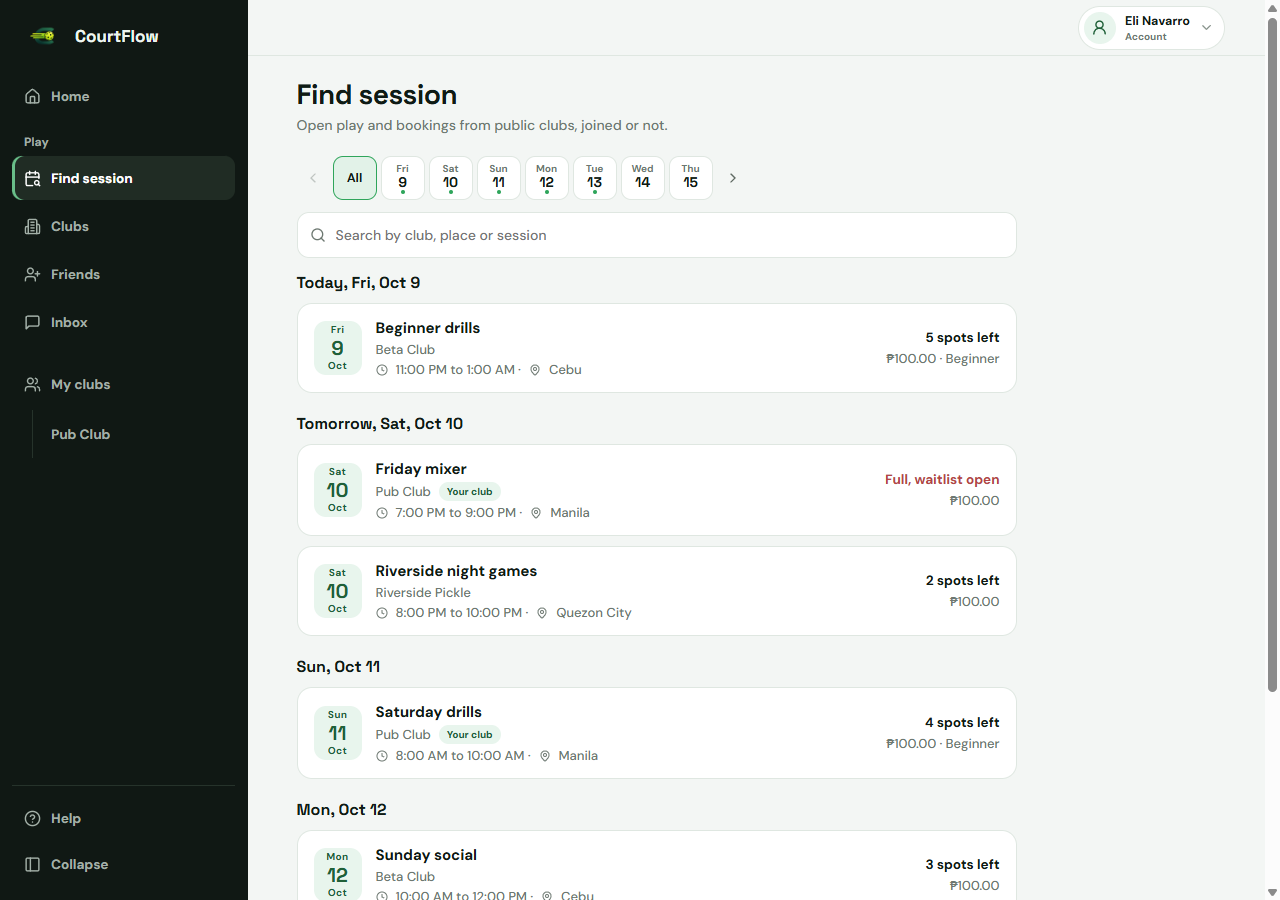
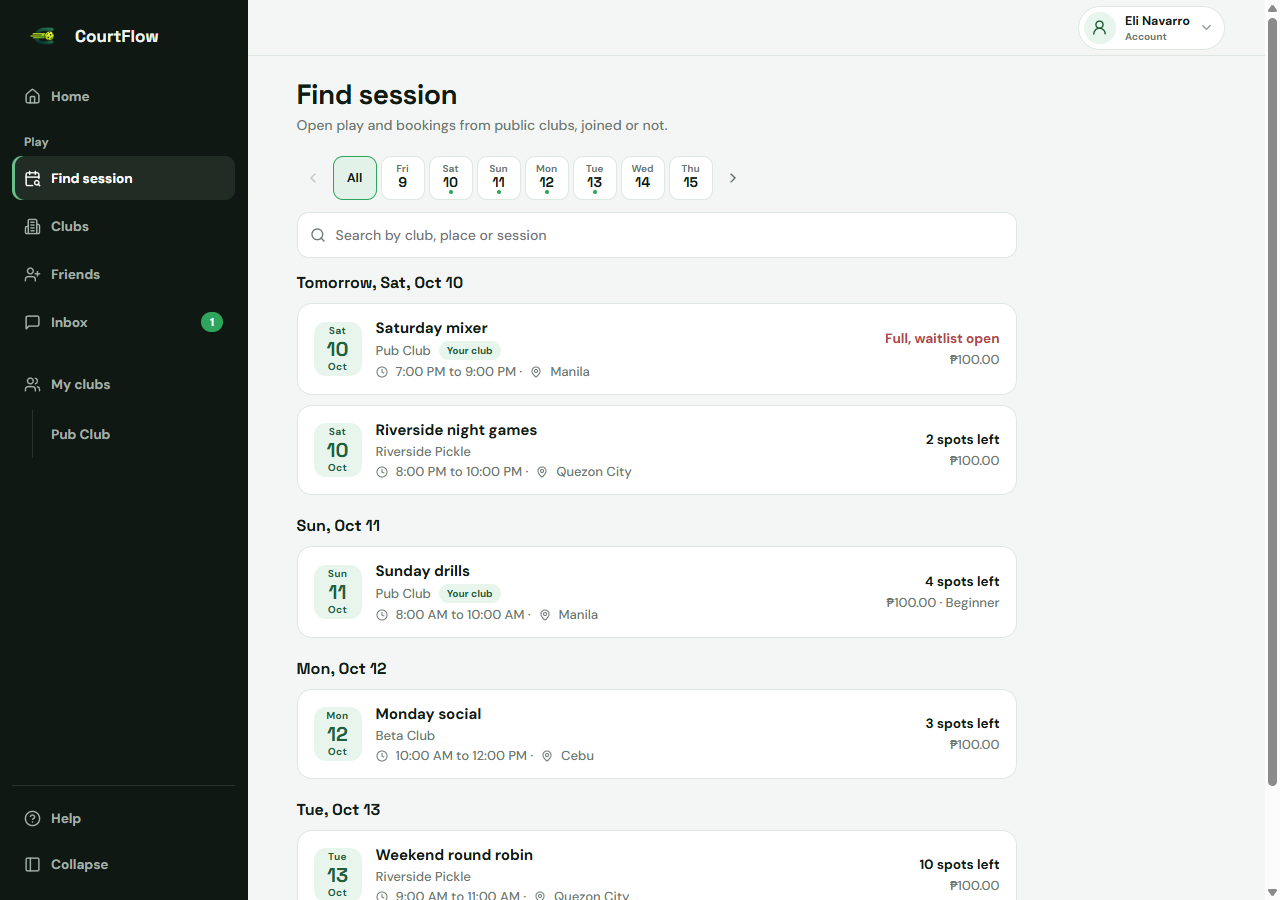
fix: Help topic switching no longer flicks through sections; sections take focus; breakpoint-aware highlight; seed titles match their days and screenshots retaken

diff --git a/src/views/Help.jsx b/src/views/Help.jsx
@@ -33,29 +33,45 @@ export default function Help({ navigate }) {
   const [active, setActive] = useState((MAJOR.find((s) => s.featured) || MAJOR[0]).id);
   const pageRef = useRef(null);
   const bodyRef = useRef(null);
+  // While a click on the contents list is scrolling to its section, the highlight must not flick through every section on the way.
+  const lockUntil = useRef(0);
+  // Wide screens scroll the guide in its own pane, phones scroll the page; follow the breakpoint if it changes (a tablet turning).
+  const [wide, setWide] = useState(() => (typeof matchMedia === "function" ? matchMedia("(min-width: 861px)").matches : true));
+  useEffect(() => {
+    if (typeof matchMedia !== "function") return undefined;
+    const mq = matchMedia("(min-width: 861px)");
+    const onChange = () => setWide(mq.matches);
+    mq.addEventListener("change", onChange);
+    return () => mq.removeEventListener("change", onChange);
+  }, []);
 
   // The contents list follows the section in view.
   useEffect(() => {
     if (typeof IntersectionObserver === "undefined" || !pageRef.current) return undefined;
     const seen = new Map();
     // On a wide screen the guide scrolls inside its own pane; on a phone the page itself scrolls.
-    const root = bodyRef.current && getComputedStyle(bodyRef.current).overflowY === "auto" ? bodyRef.current : null;
+    const root = wide && bodyRef.current ? bodyRef.current : null;
     const obs = new IntersectionObserver((entries) => {
       entries.forEach((e) => seen.set(e.target.id, e.isIntersecting ? e.intersectionRatio : 0));
+      if (Date.now() < lockUntil.current) return;
       const top = [...seen.entries()].filter(([, r]) => r > 0).map(([id]) => id)[0];
       if (top) setActive(top);
     }, { root, rootMargin: root ? "-10px 0px -60% 0px" : "-120px 0px -55% 0px", threshold: [0, 0.1] });
     pageRef.current.querySelectorAll("[data-help]").forEach((el) => obs.observe(el));
     return () => obs.disconnect();
-  }, [shownKey]);
+  }, [shownKey, wide]);
 
   // If a search hides the highlighted section, fall back to the first one still shown.
   const visibleIds = shownKey.split("|").join(",").split(",").filter(Boolean);
   const current = visibleIds.includes(active) ? active : visibleIds[0];
 
   const jump = (id) => {
+    const reduced = window.matchMedia?.("(prefers-reduced-motion: reduce)").matches;
+    lockUntil.current = Date.now() + (reduced ? 100 : 900);
     setActive(id);
-    document.getElementById(id)?.scrollIntoView({ behavior: window.matchMedia?.("(prefers-reduced-motion: reduce)").matches ? "auto" : "smooth", block: "start" });
+    const el = document.getElementById(id);
+    el?.scrollIntoView({ behavior: reduced ? "auto" : "smooth", block: "start" });
+    el?.focus({ preventScroll: true }); // keyboard users land in the section, not back in the list
   };
   const to = (path) => (e) => {
     if (OWN_PAGE.includes(path) || e.metaKey || e.ctrlKey || e.shiftKey || e.button > 0) return; // let the browser open it (new tab, own page)
@@ -104,7 +120,7 @@ export default function Help({ navigate }) {
 
           <div className="help-body" ref={bodyRef}>
             {major.map((s) => (
-              <section key={s.id} id={s.id} data-help className={`panel help-section${s.featured ? " help-featured" : ""}`} aria-labelledby={`${s.id}-h`}>
+              <section key={s.id} id={s.id} data-help tabIndex={-1} className={`panel help-section${s.featured ? " help-featured" : ""}`} aria-labelledby={`${s.id}-h`}>
                 <h2 id={`${s.id}-h`}>{s.title}{s.featured && <span className="pill">Featured</span>}</h2>
                 <p className="help-summary">{s.summary}</p>
                 <ol className="help-steps">{s.steps.map((step) => <li key={step}>{step}</li>)}</ol>
@@ -124,7 +140,7 @@ export default function Help({ navigate }) {
               <section className="help-minor" aria-label="More">
                 <h2 className="club-section">More</h2>
                 {minor.map((m) => (
-                  <article key={m.id} id={m.id} data-help><h3>{m.title}</h3><p>{m.body}</p></article>
+                  <article key={m.id} id={m.id} data-help tabIndex={-1}><h3>{m.title}</h3><p>{m.body}</p></article>
                 ))}
               </section>
             )}

diff --git a/src/clubs.css b/src/clubs.css
@@ -372,6 +372,7 @@ button.acct-brand:hover{background:var(--side-hover)}
 .help-toc-label{margin:10px 12px 2px;color:var(--muted);font-size:12px;font-weight:700}
 .help-jump{display:none;width:100%;min-height:44px;padding:0 12px;border:1px solid var(--card-line);border-radius:10px;background:var(--panel);color:var(--ink);font:inherit;font-weight:700}
 .help-body{display:grid;gap:18px;min-width:0}
+.help-body [tabindex="-1"]:focus{outline:none}
 .help-section{scroll-margin-top:calc(var(--header-h) + 84px);padding:22px;box-shadow:none}
 .help-section h2{display:flex;flex-wrap:wrap;align-items:center;gap:10px;margin:0 0 6px;font:700 20px "Space Grotesk"}
 .help-section h2 .pill{padding:4px 9px;font-size:10px}
